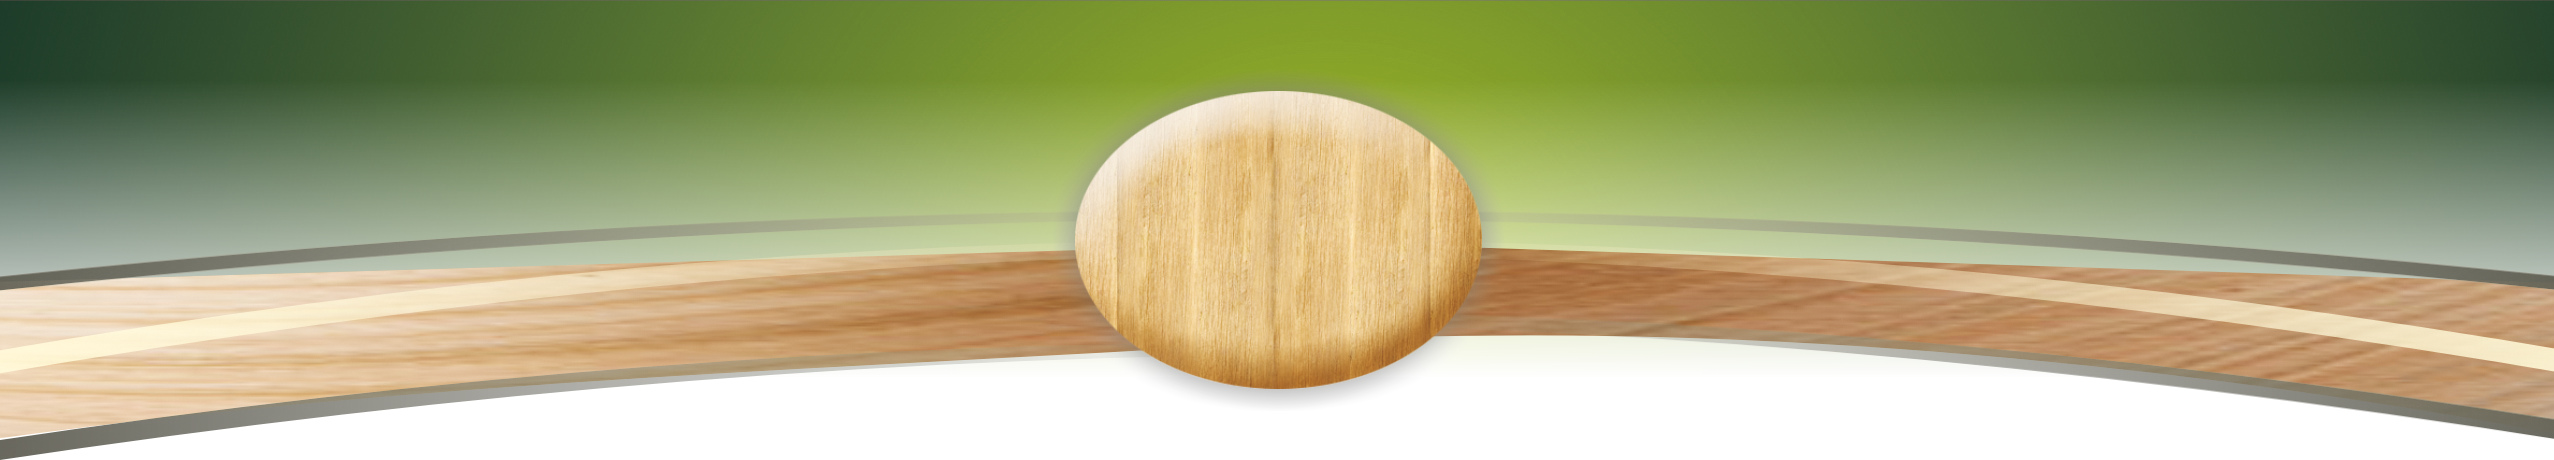
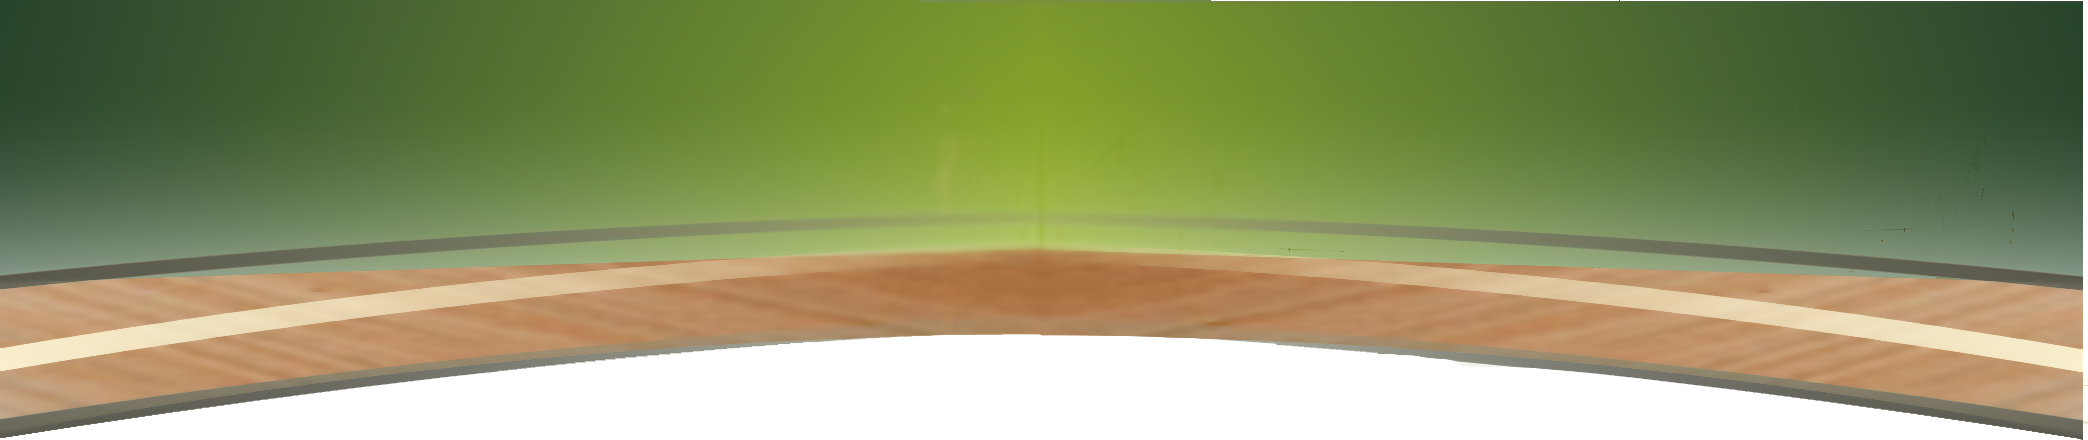
Style dla nagłówka i stopki.

diff --git a/web/css/style.css b/web/css/style.css
@@ -2,7 +2,7 @@ body, html
 {
 	width:100%;
 	height:100%;
-	background: rgb(222, 255, 193);
+	background: #f5eaca;
 }
 
 #page
@@ -17,16 +17,93 @@ body, html
 #header
 {
 	width:100%;
-	height:100px;
-	background:#65AC1D;
+	background:url(../images/header_bg.png) no-repeat center;
+	background-size:100% 100%;
+	position: relative;
+	font-family: 'Alex Brush', sans-serif;
+	min-height:130px;
+	overflow:hidden;
+	padding-bottom:20px;
+}
+#header .logo
+{
+	position:absolute;
+	top:10px;
+	width:100%;
+	height:130px;
+	background:url(../images/logo_bg.png)  no-repeat center;
+	text-align:center;
+	color:#004924;
+}
+#header .logo a
+{
+	color:#145132;
+	text-decoration: none;
+}
+#header .logo h1
+{
+	margin-top:45px;
+	font-size:52px;
+	opacity:0.8;
+}
+
+#header .textWrapper
+{
+	width:100%;
+	max-width:500px;
+	margin:0px auto;
+	padding-top:50px;
+	color:#fffbdb;
+	font-size:30px;
+	overflow:hidden;
+}
+.textWrapper h1
+{
+	width:170px;
+	float:left;
+	display:block;
+	text-align:center;
+}
+.textWrapper h1.left
+{
+	padding-right:80px;
+}
+.textWrapper h1.right
+{
+    padding-left:80px;
+}
+@media all and (max-width: 500px) {
+	.textWrapper h1
+	{
+	   width:48%;
+	}
+	#header .textWrapper
+	{
+	   color:#135132;
+	   font-size: 22px;
+	   position:absolute;
+	   top:83px;
+	}
+	.textWrapper h1.left
+	{
+	    padding-right:2%;
+	    text-align:right;
+	}
+	.textWrapper h1.right
+	{
+	    padding-left:2%;
+	    text-align:left;
+	}
+	
 }
 #footer
 {
     width:100%;
     position: absolute;
     bottom:0px;
-    background:#65AC1D;
     height: 60px;
+    background:url(../images/footer_bg.png) no-repeat center;
+    background-size:100% 100%;
 }
 
 .fullWrapper
@@ -88,16 +165,21 @@ body, html
 	display:block;
 	width:100%;
 	padding:10px;
-	background:#7FE617;
-	border-top:2px solid #99FF31;
+	background:#829f3d;
+	border-top:2px solid #618F37;
 	border-radius:3px;
 	text-decoration: none;
-	color:#404040;
+	color:#f2e6d4;
 	font-size: 16px;
 }
+.verticalMenu ul li:LAST-CHILD a
+{
+	border-bottom:2px solid #618F37;
+	padding:9px 10px;
+}
 .verticalMenu ul li a:HOVER {
-	background:#71C61C;
-	color:white;
+	background:#e3c69f;
+	color:#618F37;
 }
 
 /* ---------------------------- kafelki -------------------- */
@@ -109,52 +191,55 @@ body, html
 }
 .tile
 {
-	width:210px;
-	height:340px;
-	background:white;
-	float:left;
+	width:76%;
+	overflow:hidden;
+	height:auto;
 	border-radius:2px;
-	margin:10px;
+	margin:2% 15% 0% 5% ;
 	position: relative;
+	padding:2%;
+	border: 1px solid #E4D6BA;
+	background: #FCEFE4;
 }
-@media all and (max-width:320px)
-{
-	.tile
-	{
-	   float:none;
-	   margin:10px auto;
-	}
-	
-}
+
 .tile h1
 {
 	padding:10px;
 	font-size:14px;
-	text-align: center;
-	color:white;
+	color:#5e7c30;
 	border-radius:2px;
+	margin-right:30px;
 }
 .tile .brown
 {
-	background: #C38623;
+	color: #C38623;
 }
 .tile .green
 {
-    background: #58C432;
+   color: #58C432;
 }
 .tile .orange
 {
-    background: #FF7817;
+    color: #FF7817;
 }
 .tile .darkGreen
 {
-    background: #287D0B;
+    color: #287D0B;
 }
-.tile img
+.tile .imgDiv 
 {
-	width:180px;
-	height:140px;
-	padding:15px;
+	width:160px;
+	height:120px;
+	float:left;
+	border-radius:5px;
+	opacity:0.7;
+}
+.tile .imgDiv img
+{
+	width:120px;
+    height:100px;
+    padding:10px;
+    background: white;
 }
 .tile p
 {
@@ -303,11 +388,11 @@ ul.arrowList li
 }
 .slider .item:nth-child(even)
 {
-	  background:#63C204;
+	  background:#ac702d;
 }
 .slider .item:nth-child(odd)
 {
-	background: rgb(213, 146, 28);
+	background: #83a13d;
 }
 .slider .item img
 {
@@ -482,4 +567,88 @@ ul.arrowList li
 	width:96%;
 	padding:2%;
 	min-height:400px;
+}
+
+/*------------------------select List -------------------------------------*/
+.selectList
+{
+	margin:2% 0% 0% 7%;
+	padding:10px;
+	display:block;
+	overflow: hidden;
+	width:220px;
+	float:left;
+}
+.selectList ul
+{
+	position: absolute;
+	z-index:2;
+}
+.selectList li:FIRST-CHILD 
+{	
+	display:block;
+	
+}
+.selectList li:FIRST-CHILD a
+{
+	padding:10px 20px;
+	background: #79962c;
+	border:1px solid rgb(78, 131, 42);
+	border-radius:3px;
+	color: #f2e6d4;
+	width:180px;
+	font-size: 14px;
+}
+.selectList li:FIRST-CHILD a:HOVER
+{
+	background:#6c892f;
+	cursor: pointer;
+}
+
+.selectList li
+{
+	display:none;
+}
+.selectList li a
+{
+	text-decoration: none;
+	color:#5e7c30;
+	padding:4px 10px;
+	font-size:12px;
+	background: #FFF5E5;
+	border:1px solid rgb(78, 131, 42);
+	width:200px;
+	display:block;
+	margin-top:-1px;
+}
+.selectList li a:HOVER {
+	background: #8ABD02;
+}
+/*--------------------------end select List -------------------------------- */
+
+.chosenItem
+{
+	width:200px;
+	float:left;
+	padding:18px 10px;
+	margin:2% 0% 0% 3%;
+	color:#5e7c30;
+}
+.chosenItem span
+{
+	font-style: italic;
+	font-weight: lighter;
+}
+
+.separator
+{
+	width:100%;
+	height:1px;
+	clear:both;
+}
+
+.metaWrapper
+{
+	padding:2%;
+	background: black;
 }
